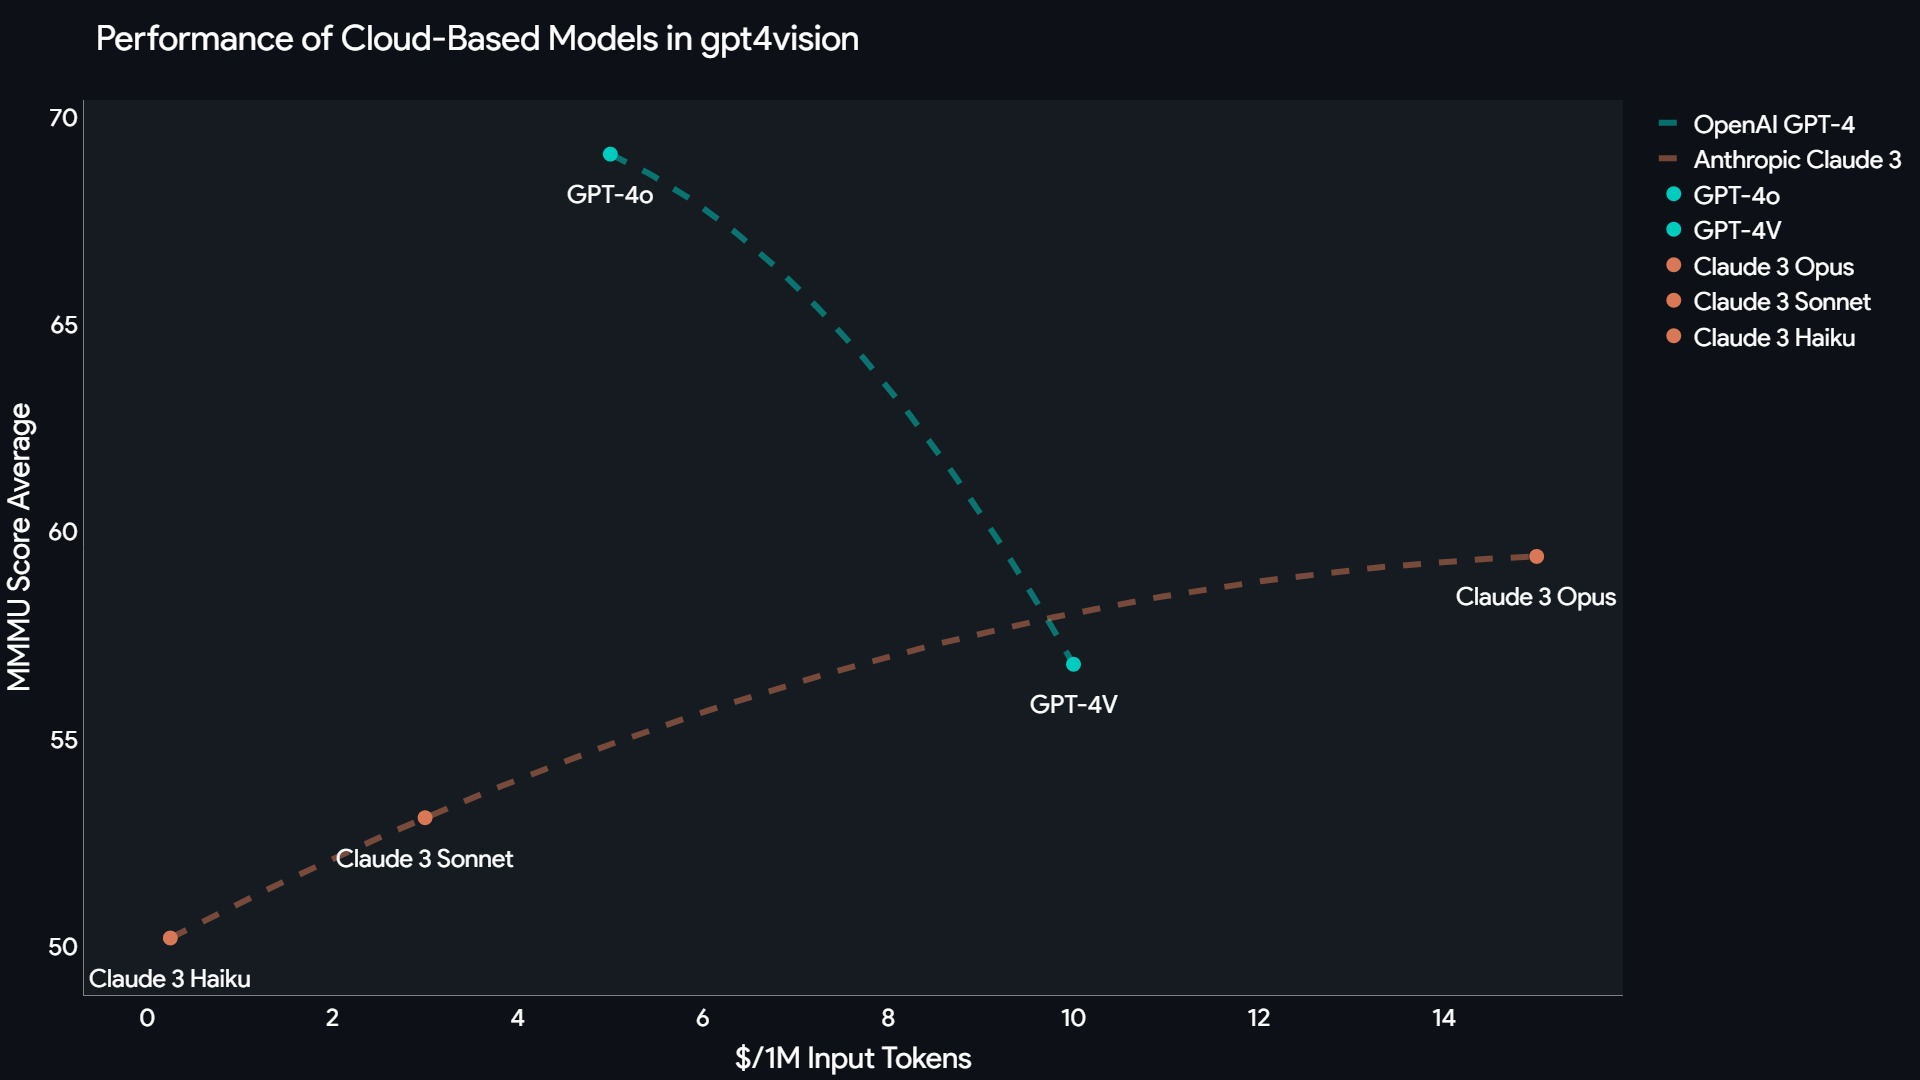
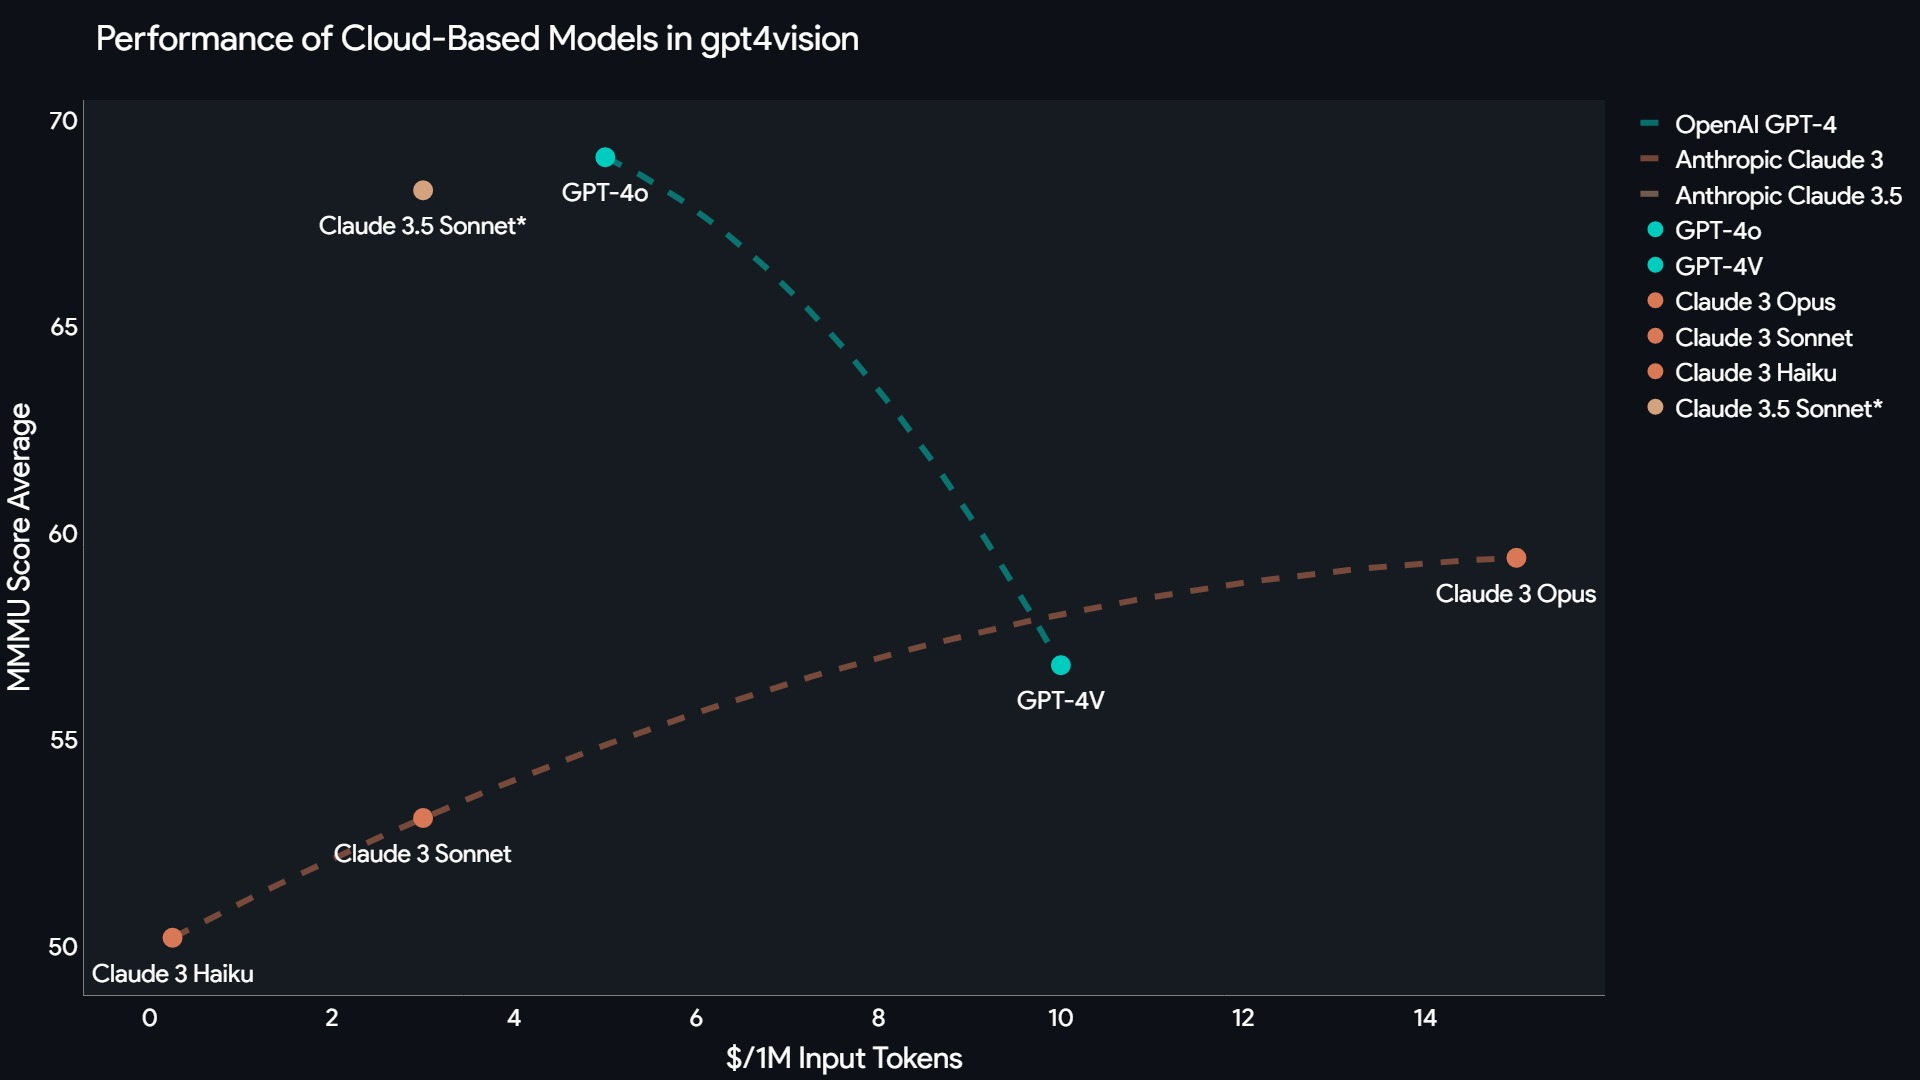
Updated README with benchmark visualization and model selection information

diff --git a/benchmark_visualization/model_benchmark_visualizer.py b/benchmark_visualization/model_benchmark_visualizer.py
@@ -18,6 +18,8 @@ def read_benchmark_data(file_path="./benchmark_visualization/benchmark_data.csv"
 def category_name(model_name):
     if "GPT-4" in model_name:
         return 'OpenAI GPT-4'
+    elif "Claude 3.5" in model_name:
+        return 'Anthropic Claude 3.5'
     elif "Claude 3" in model_name:
         return 'Anthropic Claude 3'
     elif "Gemini 1.5" in model_name:
@@ -32,6 +34,8 @@ def create_benchmark_visualization(df: pd.DataFrame):
         """Categories models based on name"""
         if "GPT-4" in model_name:
             return 'GPT-4'
+        elif "Claude 3.5" in model_name:
+            return 'Claude 3.5'
         elif "Claude 3" in model_name:
             return 'Claude 3'
         elif "Gemini 1.5" in model_name:
@@ -42,16 +46,17 @@ def create_benchmark_visualization(df: pd.DataFrame):
     df['Category'] = df['Model'].apply(categorize_model)
 
     # Set order for legend
-    category_order = ['GPT-4', 'Claude 3'] # Add 'Gemini 1.5'
+    category_order = ['GPT-4', 'Claude 3', 'Claude 3.5']  # Add 'Gemini 1.5'
     df['Category'] = pd.Categorical(
         df['Category'], categories=category_order, ordered=True)
     df = df.sort_values('Category')
 
     # Set colors for different providers
-    colors = {'GPT-4': '#00cbbf', 'Claude 3': '#d97857', 'Gemini 1.5': '#5da9ff', 'Other': 'gray'}
+    colors = {'GPT-4': '#00cbbf', 'Claude 3': '#d97857',
+              'Gemini 1.5': '#5da9ff', 'Claude 3.5': '#d4a27f', 'Other': 'gray'}
 
     for category, group_df in df.groupby('Category'):
-        if category not in ['GPT-4', 'Claude 3', 'Gemini 1.5', 'Other']:
+        if category not in ['GPT-4', 'Claude 3', 'Claude 3.5', 'Gemini 1.5', 'Other']:
             continue
 
         x = group_df['Cost'].astype(float)
@@ -69,12 +74,11 @@ def create_benchmark_visualization(df: pd.DataFrame):
                       name=f"{category_name(category)}", line=dict(color=colors[category], width=6, dash='dash'), opacity=0.5))
 
     # plot the actual datapoints
-    # plot the actual datapoints
     for index, model in df.iterrows():
         try:
             fig.add_trace(go.Scatter(x=[model['Cost']], y=[model['Overall']],
                         mode='markers', # Removed 'text' from mode
-                        name=model['Model'], marker=dict(size=15, color=colors[model['Category']])))
+                        name=model['Model'], marker=dict(size=20, color=colors[model['Category']])))
         except Exception as e:
             continue
     
@@ -82,7 +86,7 @@ def create_benchmark_visualization(df: pd.DataFrame):
         fig.add_annotation(x=model['Cost'], y=model['Overall'],
                            text=model['Model'],
                            showarrow=False,
-                           yshift=-40)
+                           yshift=-35)
 
     fig.update_layout(title='Performance of Cloud-Based Models in gpt4vision',
                       xaxis_title='$/1M Input Tokens', yaxis_title='MMMU Score Average',
